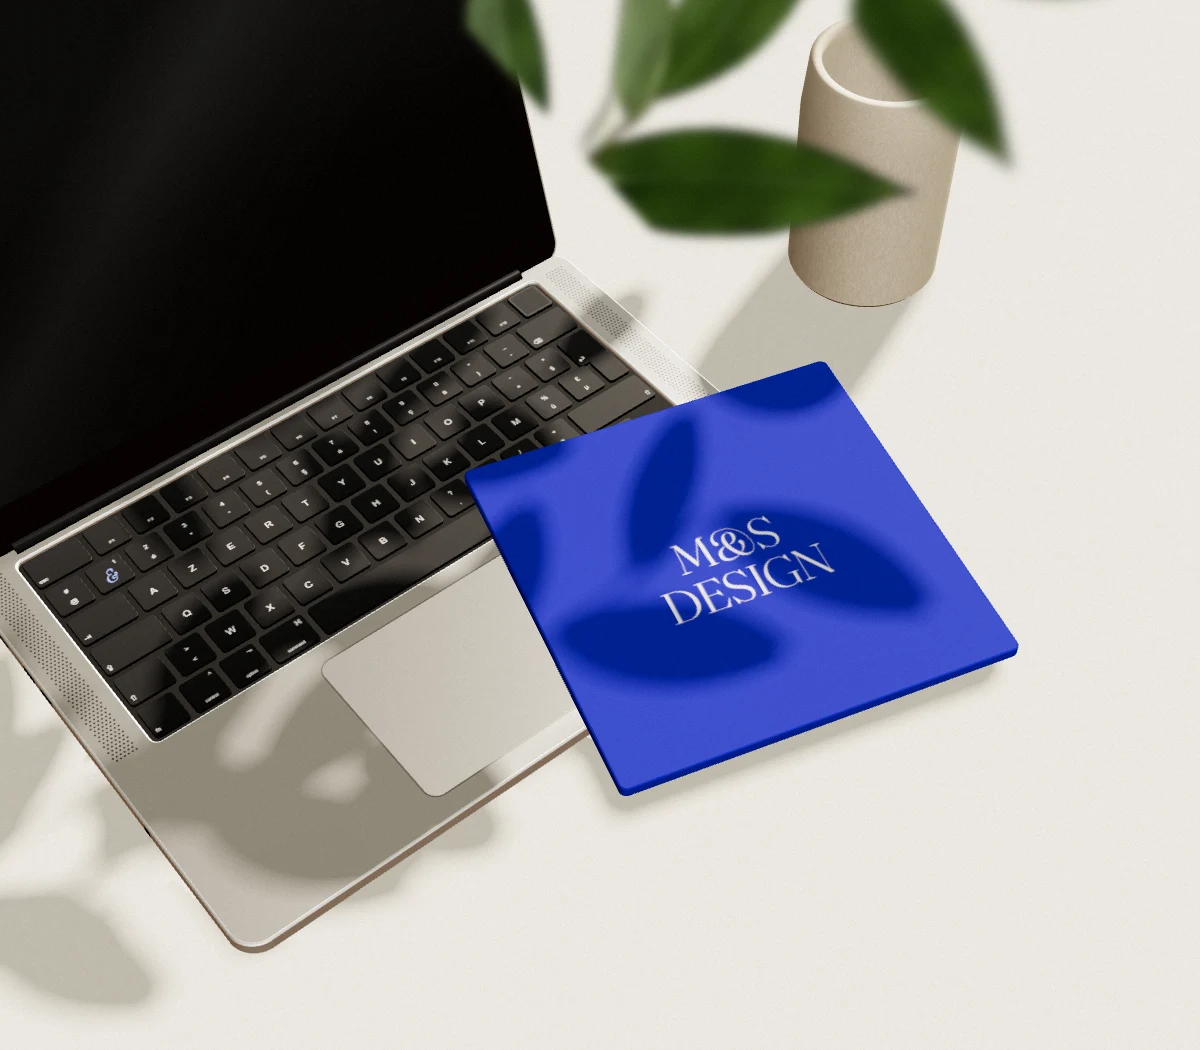
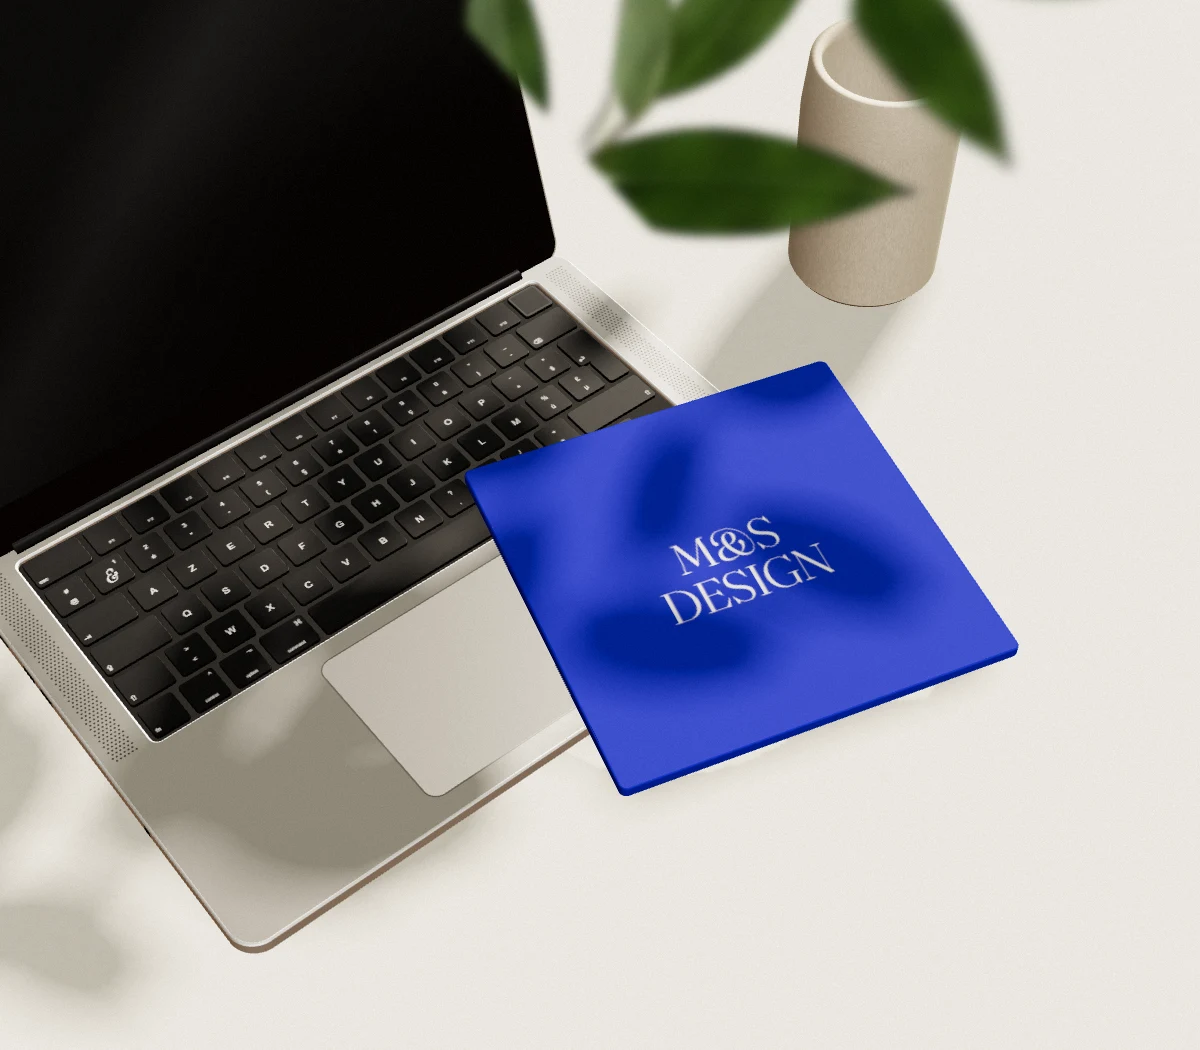
v19 : les touches M, & et S clignotent en bleu sur la photo du contact
- Photo du contact rendue deux fois (touches éteintes / allumées, hasard
  figé) ; le calque des touches M, & et S, avec un halo de
  rétroéclairage, s'allume et s'éteint doucement (2,4 s)
- Avec « Réduire les animations », les touches restent allumées

diff --git a/index.html b/index.html
@@ -32,10 +32,10 @@
 <link rel="preload" href="/msdesign.be/assets/fonts/instrument-sans-400-700-latin.woff2" as="font" type="font/woff2" crossorigin>
 <link rel="preload" href="/msdesign.be/assets/fonts/fraunces-normal-300-700-latin.woff2" as="font" type="font/woff2" crossorigin>
 <link rel="preload" href="/msdesign.be/assets/fonts/archivo-var-latin.woff2" as="font" type="font/woff2" crossorigin>
-<link rel="stylesheet" href="/msdesign.be/assets/css/main.css?v=982e0adec0">
+<link rel="stylesheet" href="/msdesign.be/assets/css/main.css?v=c00252afc4">
 <script>(function(){var d=document.documentElement,l=location,R=false,I=true,m,s;if(l.protocol==='http:'&&!/^(localhost|127\.0\.0\.1|\[::1\])$/.test(l.hostname)){l.replace('https:'+l.href.slice(5));return}d.classList.add('js');try{m=(l.search.match(/[?&]motion=(full|reduce)/)||[])[1];if(m)localStorage.setItem('ms_motion',m);R=localStorage.getItem('ms_motion')==='reduce'}catch(e){}if(R)d.classList.add('reduced');s=(l.search.match(/[?&]intro=(0|1)/)||[])[1];try{if(s!=='1'&&sessionStorage.getItem('ms_intro')==='seen'&&document.referrer.indexOf(l.origin)===0)I=false}catch(e){}if(s==='0'||R||(!s&&l.hash.length>1))I=false;if(d.getAttribute('data-page')==='index'&&I)d.classList.add('intro-on');setTimeout(function(){if(!d.classList.contains('js-ready'))d.classList.remove('js')},6000)})();</script>
-<script src="/msdesign.be/assets/vendor/lenis.min.js?v=982e0adec0" defer></script>
-<script src="/msdesign.be/assets/js/app.js?v=982e0adec0" defer></script>
+<script src="/msdesign.be/assets/vendor/lenis.min.js?v=c00252afc4" defer></script>
+<script src="/msdesign.be/assets/js/app.js?v=c00252afc4" defer></script>
 <!--/include-->
 <script type="application/ld+json">
 {
@@ -398,6 +398,7 @@
     </div>
     <figure class="contact__photo" data-reveal>
       <img src="/msdesign.be/assets/img/contact-studio-1200.webp" width="1200" height="1050" loading="lazy" decoding="async" alt="Un ordinateur portable ouvert sur un bureau clair, un carnet bleu M&amp;S Design posé dessus, l’ombre d’une plante.">
+      <img class="contact__keys" src="/msdesign.be/assets/img/contact-keys-1200.webp" width="1200" height="1050" alt="" aria-hidden="true" loading="lazy" decoding="async">
       <svg class="seal" viewBox="0 0 120 120" aria-hidden="true"><defs><path id="seal-path" d="M60 60m-44 0a44 44 0 1 1 88 0a44 44 0 1 1 -88 0"/></defs><g class="seal__ring"><text><textPath href="#seal-path">M&amp;S DESIGN · STUDIO WEB · BRUXELLES ·</textPath></text></g><text class="seal__amp" x="60" y="69" text-anchor="middle">&amp;</text></svg>
     </figure>
   </div>

diff --git a/etudes/index.html b/etudes/index.html
@@ -29,10 +29,10 @@
 <link rel="preload" href="/msdesign.be/assets/fonts/instrument-sans-400-700-latin.woff2" as="font" type="font/woff2" crossorigin>
 <link rel="preload" href="/msdesign.be/assets/fonts/fraunces-normal-300-700-latin.woff2" as="font" type="font/woff2" crossorigin>
 <link rel="preload" href="/msdesign.be/assets/fonts/archivo-var-latin.woff2" as="font" type="font/woff2" crossorigin>
-<link rel="stylesheet" href="/msdesign.be/assets/css/main.css?v=982e0adec0">
+<link rel="stylesheet" href="/msdesign.be/assets/css/main.css?v=c00252afc4">
 <script>(function(){var d=document.documentElement,l=location,R=false,I=true,m,s;if(l.protocol==='http:'&&!/^(localhost|127\.0\.0\.1|\[::1\])$/.test(l.hostname)){l.replace('https:'+l.href.slice(5));return}d.classList.add('js');try{m=(l.search.match(/[?&]motion=(full|reduce)/)||[])[1];if(m)localStorage.setItem('ms_motion',m);R=localStorage.getItem('ms_motion')==='reduce'}catch(e){}if(R)d.classList.add('reduced');s=(l.search.match(/[?&]intro=(0|1)/)||[])[1];try{if(s!=='1'&&sessionStorage.getItem('ms_intro')==='seen'&&document.referrer.indexOf(l.origin)===0)I=false}catch(e){}if(s==='0'||R||(!s&&l.hash.length>1))I=false;if(d.getAttribute('data-page')==='index'&&I)d.classList.add('intro-on');setTimeout(function(){if(!d.classList.contains('js-ready'))d.classList.remove('js')},6000)})();</script>
-<script src="/msdesign.be/assets/vendor/lenis.min.js?v=982e0adec0" defer></script>
-<script src="/msdesign.be/assets/js/app.js?v=982e0adec0" defer></script>
+<script src="/msdesign.be/assets/vendor/lenis.min.js?v=c00252afc4" defer></script>
+<script src="/msdesign.be/assets/js/app.js?v=c00252afc4" defer></script>
 <!--/include-->
 <script type="application/ld+json">
 {

diff --git a/404.html b/404.html
@@ -19,10 +19,10 @@
 <link rel="preload" href="/msdesign.be/assets/fonts/instrument-sans-400-700-latin.woff2" as="font" type="font/woff2" crossorigin>
 <link rel="preload" href="/msdesign.be/assets/fonts/fraunces-normal-300-700-latin.woff2" as="font" type="font/woff2" crossorigin>
 <link rel="preload" href="/msdesign.be/assets/fonts/archivo-var-latin.woff2" as="font" type="font/woff2" crossorigin>
-<link rel="stylesheet" href="/msdesign.be/assets/css/main.css?v=982e0adec0">
+<link rel="stylesheet" href="/msdesign.be/assets/css/main.css?v=c00252afc4">
 <script>(function(){var d=document.documentElement,l=location,R=false,I=true,m,s;if(l.protocol==='http:'&&!/^(localhost|127\.0\.0\.1|\[::1\])$/.test(l.hostname)){l.replace('https:'+l.href.slice(5));return}d.classList.add('js');try{m=(l.search.match(/[?&]motion=(full|reduce)/)||[])[1];if(m)localStorage.setItem('ms_motion',m);R=localStorage.getItem('ms_motion')==='reduce'}catch(e){}if(R)d.classList.add('reduced');s=(l.search.match(/[?&]intro=(0|1)/)||[])[1];try{if(s!=='1'&&sessionStorage.getItem('ms_intro')==='seen'&&document.referrer.indexOf(l.origin)===0)I=false}catch(e){}if(s==='0'||R||(!s&&l.hash.length>1))I=false;if(d.getAttribute('data-page')==='index'&&I)d.classList.add('intro-on');setTimeout(function(){if(!d.classList.contains('js-ready'))d.classList.remove('js')},6000)})();</script>
-<script src="/msdesign.be/assets/vendor/lenis.min.js?v=982e0adec0" defer></script>
-<script src="/msdesign.be/assets/js/app.js?v=982e0adec0" defer></script>
+<script src="/msdesign.be/assets/vendor/lenis.min.js?v=c00252afc4" defer></script>
+<script src="/msdesign.be/assets/js/app.js?v=c00252afc4" defer></script>
 <!--/include-->
 </head>
 <body>

diff --git a/cgu.html b/cgu.html
@@ -29,10 +29,10 @@
 <link rel="preload" href="/msdesign.be/assets/fonts/instrument-sans-400-700-latin.woff2" as="font" type="font/woff2" crossorigin>
 <link rel="preload" href="/msdesign.be/assets/fonts/fraunces-normal-300-700-latin.woff2" as="font" type="font/woff2" crossorigin>
 <link rel="preload" href="/msdesign.be/assets/fonts/archivo-var-latin.woff2" as="font" type="font/woff2" crossorigin>
-<link rel="stylesheet" href="/msdesign.be/assets/css/main.css?v=982e0adec0">
+<link rel="stylesheet" href="/msdesign.be/assets/css/main.css?v=c00252afc4">
 <script>(function(){var d=document.documentElement,l=location,R=false,I=true,m,s;if(l.protocol==='http:'&&!/^(localhost|127\.0\.0\.1|\[::1\])$/.test(l.hostname)){l.replace('https:'+l.href.slice(5));return}d.classList.add('js');try{m=(l.search.match(/[?&]motion=(full|reduce)/)||[])[1];if(m)localStorage.setItem('ms_motion',m);R=localStorage.getItem('ms_motion')==='reduce'}catch(e){}if(R)d.classList.add('reduced');s=(l.search.match(/[?&]intro=(0|1)/)||[])[1];try{if(s!=='1'&&sessionStorage.getItem('ms_intro')==='seen'&&document.referrer.indexOf(l.origin)===0)I=false}catch(e){}if(s==='0'||R||(!s&&l.hash.length>1))I=false;if(d.getAttribute('data-page')==='index'&&I)d.classList.add('intro-on');setTimeout(function(){if(!d.classList.contains('js-ready'))d.classList.remove('js')},6000)})();</script>
-<script src="/msdesign.be/assets/vendor/lenis.min.js?v=982e0adec0" defer></script>
-<script src="/msdesign.be/assets/js/app.js?v=982e0adec0" defer></script>
+<script src="/msdesign.be/assets/vendor/lenis.min.js?v=c00252afc4" defer></script>
+<script src="/msdesign.be/assets/js/app.js?v=c00252afc4" defer></script>
 <!--/include-->
 </head>
 <body>

diff --git a/confidentialite.html b/confidentialite.html
@@ -29,10 +29,10 @@
 <link rel="preload" href="/msdesign.be/assets/fonts/instrument-sans-400-700-latin.woff2" as="font" type="font/woff2" crossorigin>
 <link rel="preload" href="/msdesign.be/assets/fonts/fraunces-normal-300-700-latin.woff2" as="font" type="font/woff2" crossorigin>
 <link rel="preload" href="/msdesign.be/assets/fonts/archivo-var-latin.woff2" as="font" type="font/woff2" crossorigin>
-<link rel="stylesheet" href="/msdesign.be/assets/css/main.css?v=982e0adec0">
+<link rel="stylesheet" href="/msdesign.be/assets/css/main.css?v=c00252afc4">
 <script>(function(){var d=document.documentElement,l=location,R=false,I=true,m,s;if(l.protocol==='http:'&&!/^(localhost|127\.0\.0\.1|\[::1\])$/.test(l.hostname)){l.replace('https:'+l.href.slice(5));return}d.classList.add('js');try{m=(l.search.match(/[?&]motion=(full|reduce)/)||[])[1];if(m)localStorage.setItem('ms_motion',m);R=localStorage.getItem('ms_motion')==='reduce'}catch(e){}if(R)d.classList.add('reduced');s=(l.search.match(/[?&]intro=(0|1)/)||[])[1];try{if(s!=='1'&&sessionStorage.getItem('ms_intro')==='seen'&&document.referrer.indexOf(l.origin)===0)I=false}catch(e){}if(s==='0'||R||(!s&&l.hash.length>1))I=false;if(d.getAttribute('data-page')==='index'&&I)d.classList.add('intro-on');setTimeout(function(){if(!d.classList.contains('js-ready'))d.classList.remove('js')},6000)})();</script>
-<script src="/msdesign.be/assets/vendor/lenis.min.js?v=982e0adec0" defer></script>
-<script src="/msdesign.be/assets/js/app.js?v=982e0adec0" defer></script>
+<script src="/msdesign.be/assets/vendor/lenis.min.js?v=c00252afc4" defer></script>
+<script src="/msdesign.be/assets/js/app.js?v=c00252afc4" defer></script>
 <!--/include-->
 </head>
 <body>

diff --git a/merci.html b/merci.html
@@ -19,10 +19,10 @@
 <link rel="preload" href="/msdesign.be/assets/fonts/instrument-sans-400-700-latin.woff2" as="font" type="font/woff2" crossorigin>
 <link rel="preload" href="/msdesign.be/assets/fonts/fraunces-normal-300-700-latin.woff2" as="font" type="font/woff2" crossorigin>
 <link rel="preload" href="/msdesign.be/assets/fonts/archivo-var-latin.woff2" as="font" type="font/woff2" crossorigin>
-<link rel="stylesheet" href="/msdesign.be/assets/css/main.css?v=982e0adec0">
+<link rel="stylesheet" href="/msdesign.be/assets/css/main.css?v=c00252afc4">
 <script>(function(){var d=document.documentElement,l=location,R=false,I=true,m,s;if(l.protocol==='http:'&&!/^(localhost|127\.0\.0\.1|\[::1\])$/.test(l.hostname)){l.replace('https:'+l.href.slice(5));return}d.classList.add('js');try{m=(l.search.match(/[?&]motion=(full|reduce)/)||[])[1];if(m)localStorage.setItem('ms_motion',m);R=localStorage.getItem('ms_motion')==='reduce'}catch(e){}if(R)d.classList.add('reduced');s=(l.search.match(/[?&]intro=(0|1)/)||[])[1];try{if(s!=='1'&&sessionStorage.getItem('ms_intro')==='seen'&&document.referrer.indexOf(l.origin)===0)I=false}catch(e){}if(s==='0'||R||(!s&&l.hash.length>1))I=false;if(d.getAttribute('data-page')==='index'&&I)d.classList.add('intro-on');setTimeout(function(){if(!d.classList.contains('js-ready'))d.classList.remove('js')},6000)})();</script>
-<script src="/msdesign.be/assets/vendor/lenis.min.js?v=982e0adec0" defer></script>
-<script src="/msdesign.be/assets/js/app.js?v=982e0adec0" defer></script>
+<script src="/msdesign.be/assets/vendor/lenis.min.js?v=c00252afc4" defer></script>
+<script src="/msdesign.be/assets/js/app.js?v=c00252afc4" defer></script>
 <!--/include-->
 </head>
 <body>

diff --git a/assets/css/main.css b/assets/css/main.css
@@ -411,6 +411,10 @@ a.win:focus-visible { outline: 2px solid var(--blue); outline-offset: 4px; }
 .contact__photo { position: relative; margin: 0 18px 18px 0; }
 .contact__photo::before { content: ""; position: absolute; right: -18px; bottom: -18px; width: 64%; height: 60%; background: var(--blue); }
 .contact__photo img { position: relative; display: block; width: 100%; height: auto; aspect-ratio: auto; }
+/* les touches M, & et S du clavier s’allument en bleu, comme un rétroéclairage */
+.contact__photo .contact__keys { position: absolute; left: 0; top: 0; z-index: 1; width: 100%; height: auto; pointer-events: none; animation: keys-blink 2.4s ease-in-out infinite; }
+@keyframes keys-blink { 0%, 100% { opacity: 0; } 40%, 72% { opacity: 1; } }
+html.reduced .contact__photo .contact__keys { animation: none !important; opacity: 1; }
 .seal { position: absolute; z-index: 2; right: -30px; top: -34px; width: 120px; height: 120px; border-radius: 50%; background: var(--bg); box-shadow: 0 0 0 1px rgba(21, 94, 239, 0.3), 0 14px 30px -18px rgba(23, 23, 23, 0.4); }
 .seal__ring { transform-origin: 60px 60px; animation: seal-turn 28s linear infinite; }
 .seal__ring text { font: 600 9.6px/1 var(--sans); letter-spacing: 2.3px; fill: var(--blue); }
